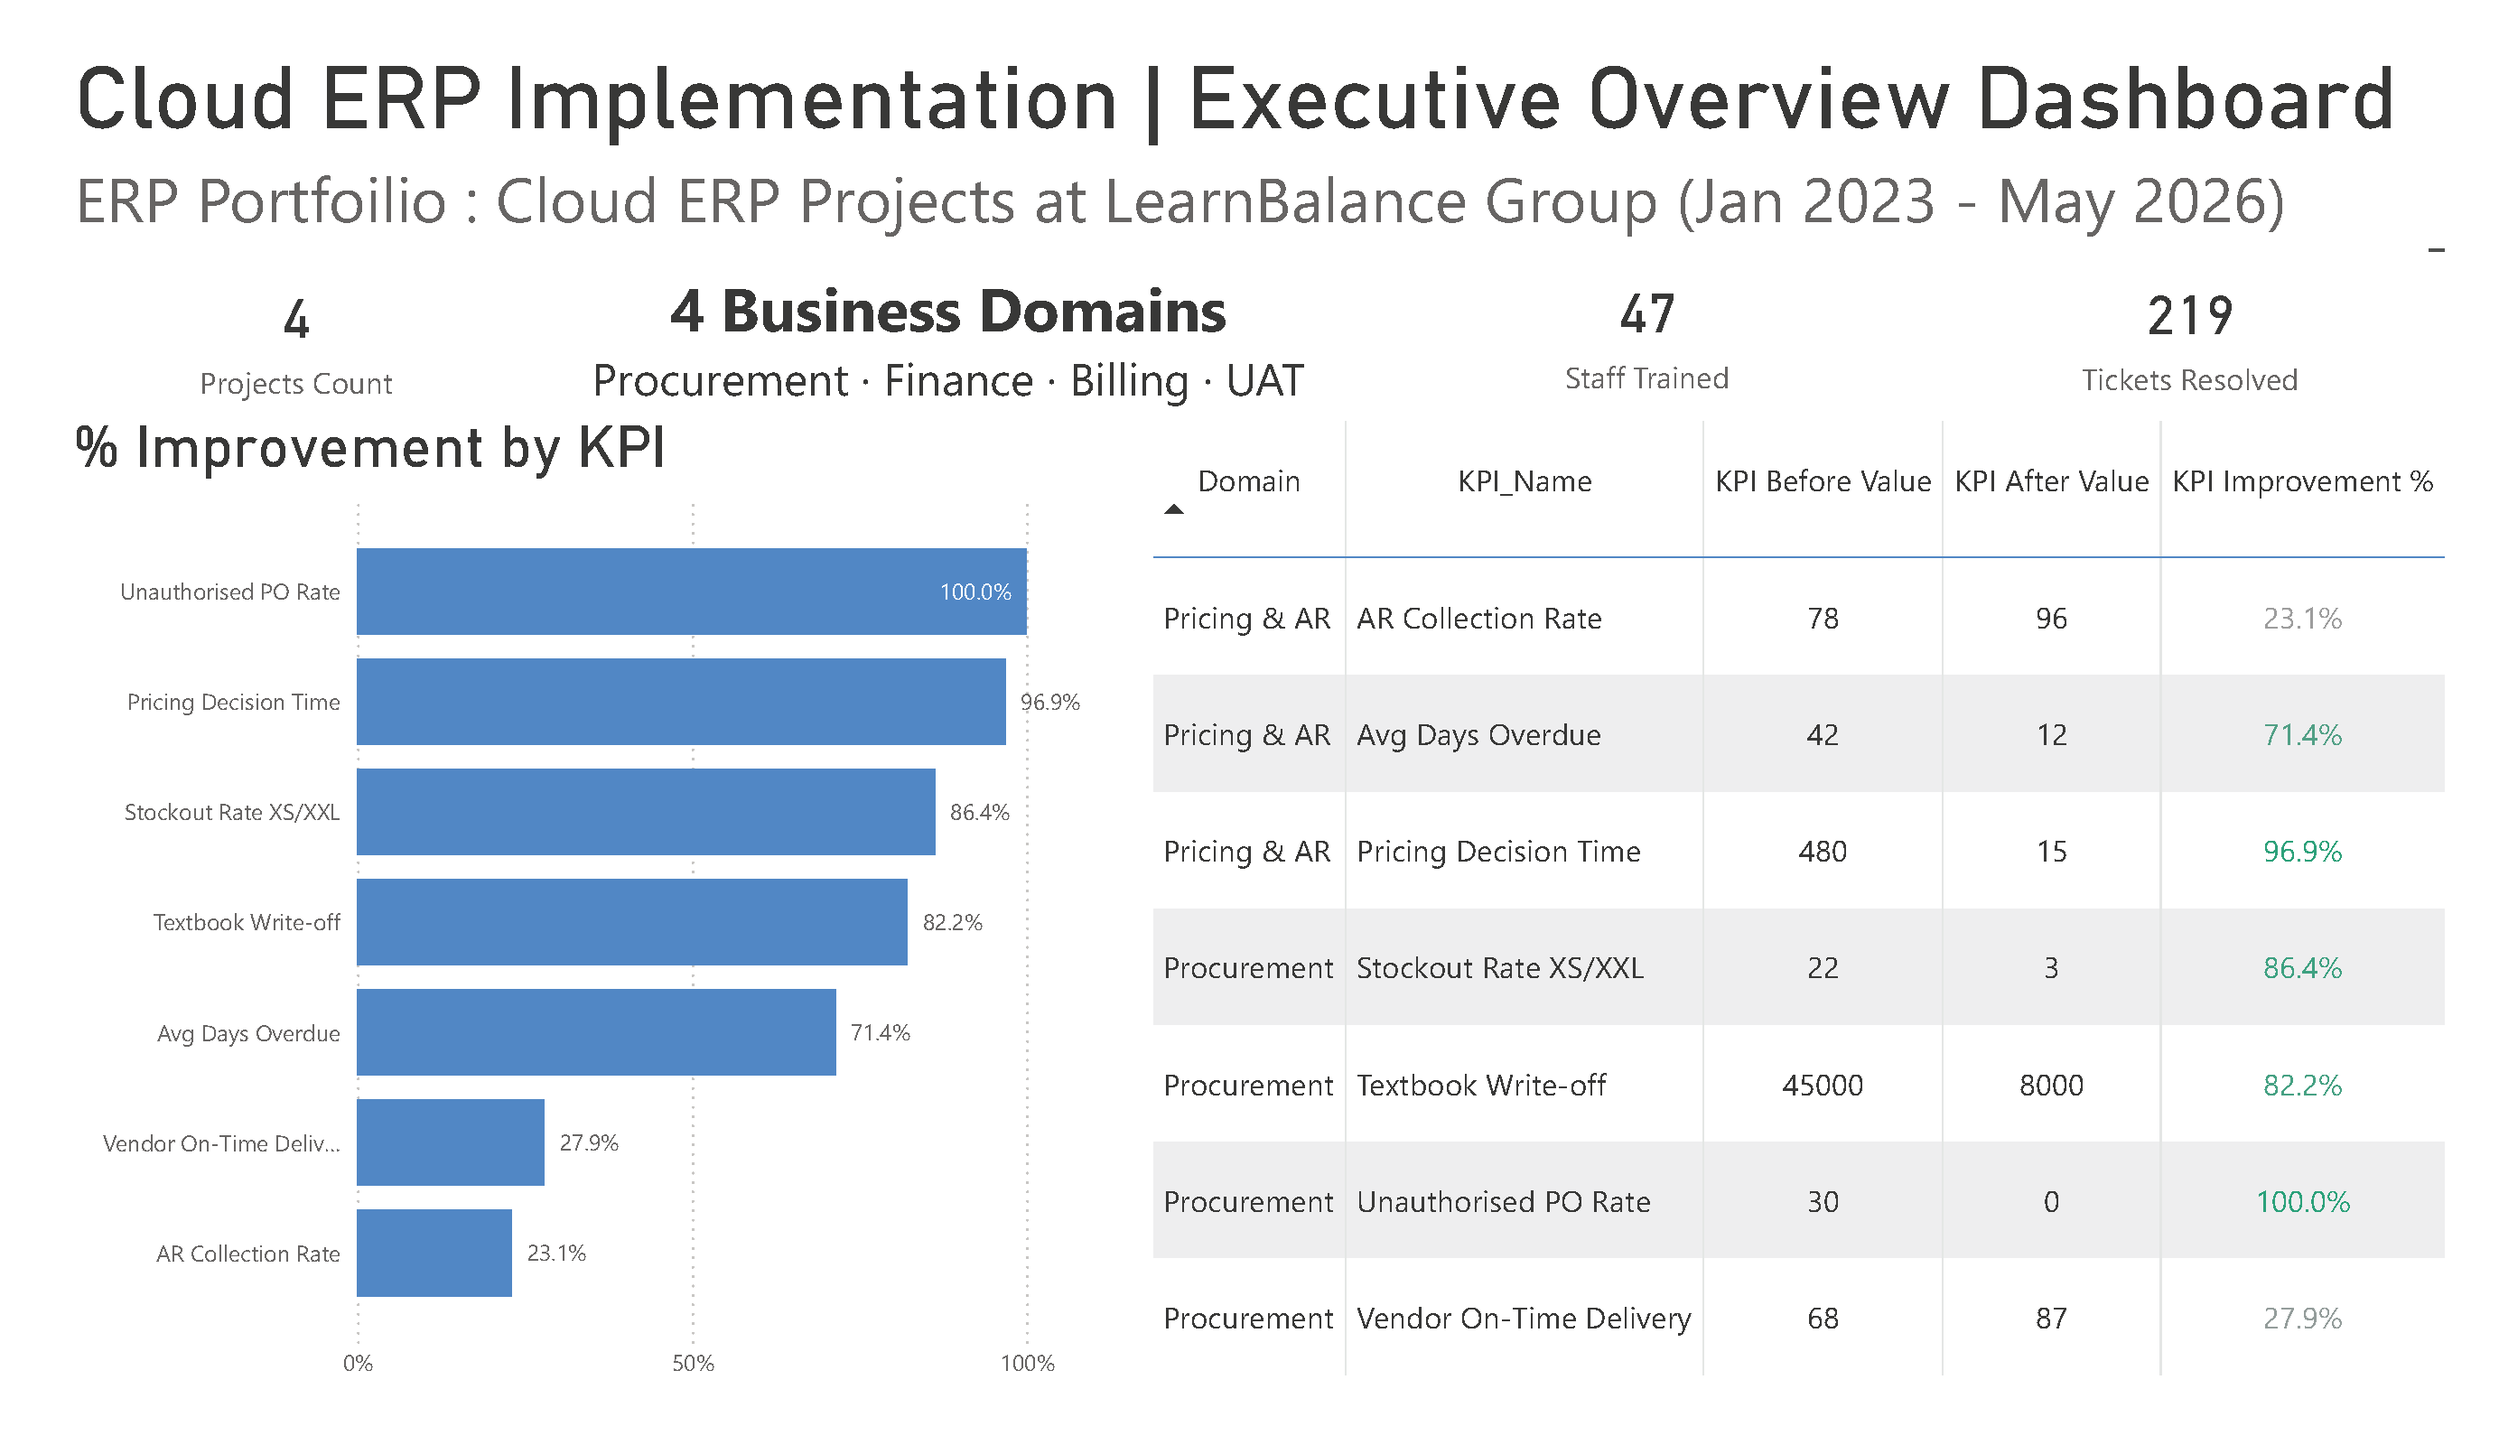
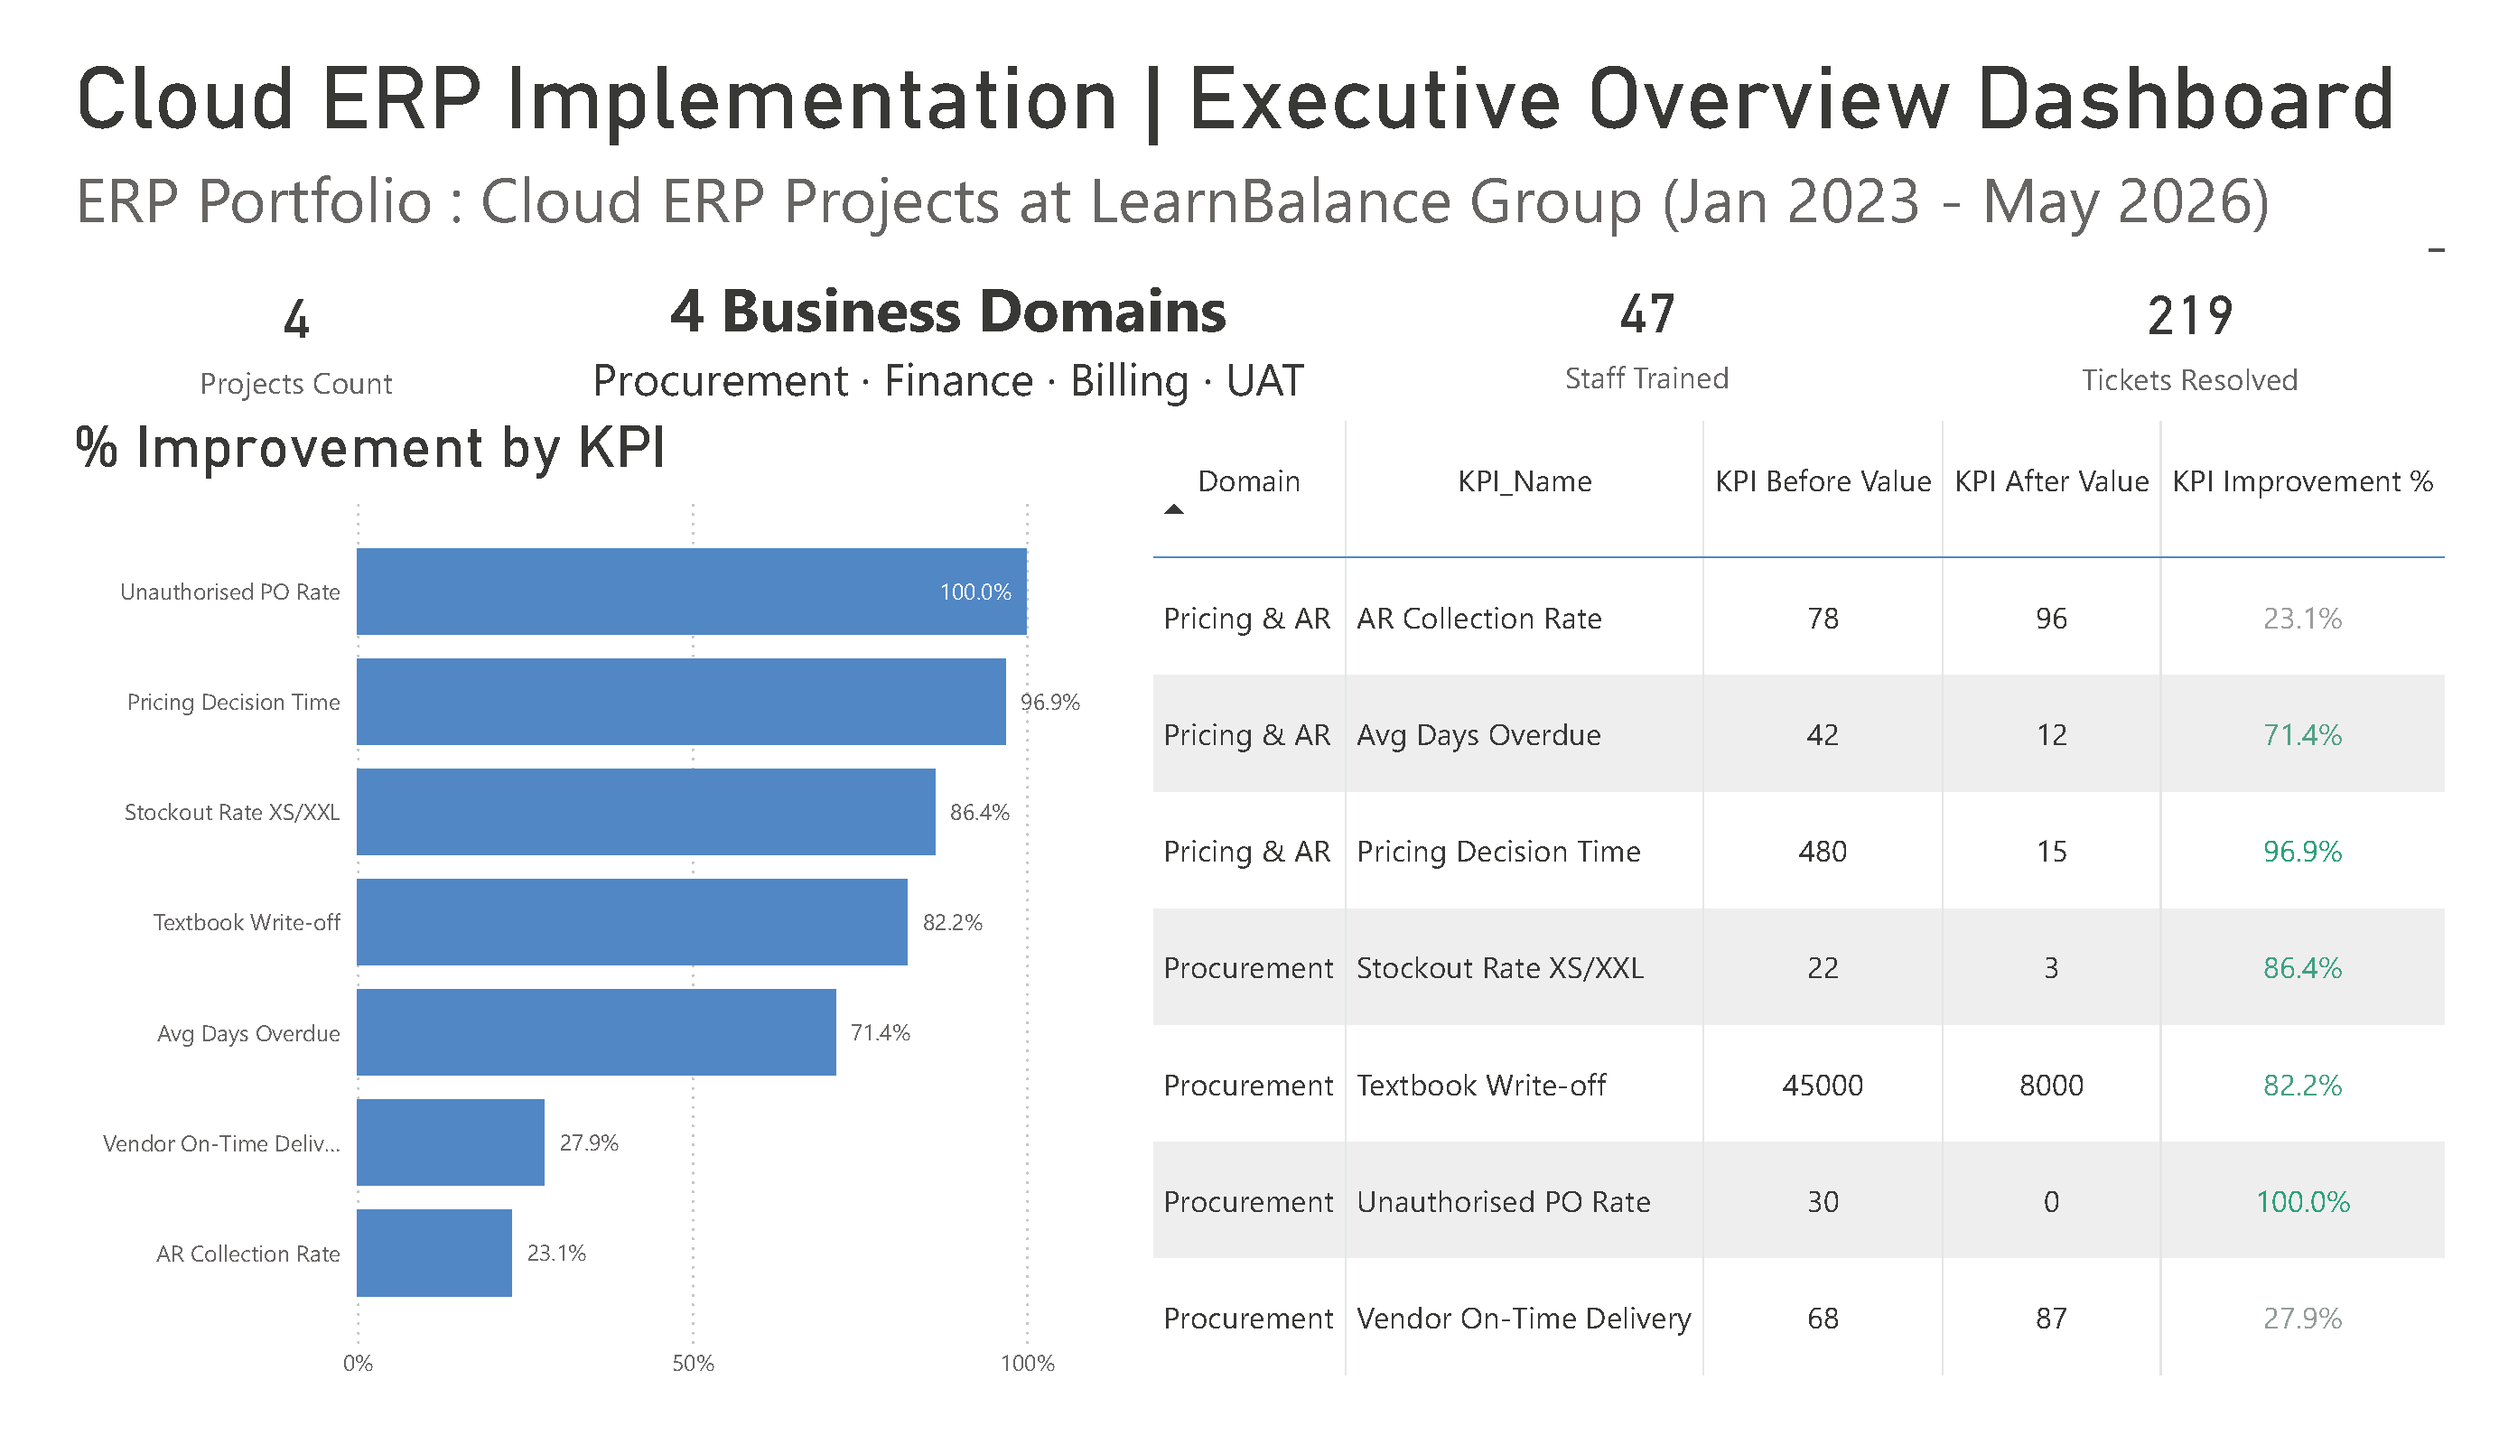
overview: corrected dashboard image + caption Jan 2023 - May 2026
User re-exported dashboard-overview.png (fixed "Portfoilio" typo,
intentionally keeps the portfolio reporting period at May 2026). Align
the index caption to the image: Jun 2026 -> May 2026. This is the
portfolio reporting window; P4's own go-live milestone remains Jun 2026
(different, both intentional). KPIs/47/219/4 domains unchanged.

Changed region(s): [[0.1554, 0.125, 0.9324, 0.1562]]

diff --git a/index.html b/index.html
@@ -284,7 +284,7 @@
     </div>
     <img src="dashboards/dashboard-overview.png?v=2" alt="Power BI executive dashboard summarising all 4 ERP projects" class="dashboard-image">
     <div class="dashboard-footer">
-      <strong>Source:</strong> Consolidated production data from 4 XeerSoft ERP projects at Learn Balance Group, Jan 2023 – Jun 2026. 47 staff trained · 219 tickets resolved · 7 KPIs improved across Procurement, Finance, Billing, and UAT domains.
+      <strong>Source:</strong> Consolidated production data from 4 XeerSoft ERP projects at Learn Balance Group, Jan 2023 – May 2026. 47 staff trained · 219 tickets resolved · 7 KPIs improved across Procurement, Finance, Billing, and UAT domains.
     </div>
   </div>
 </section>
